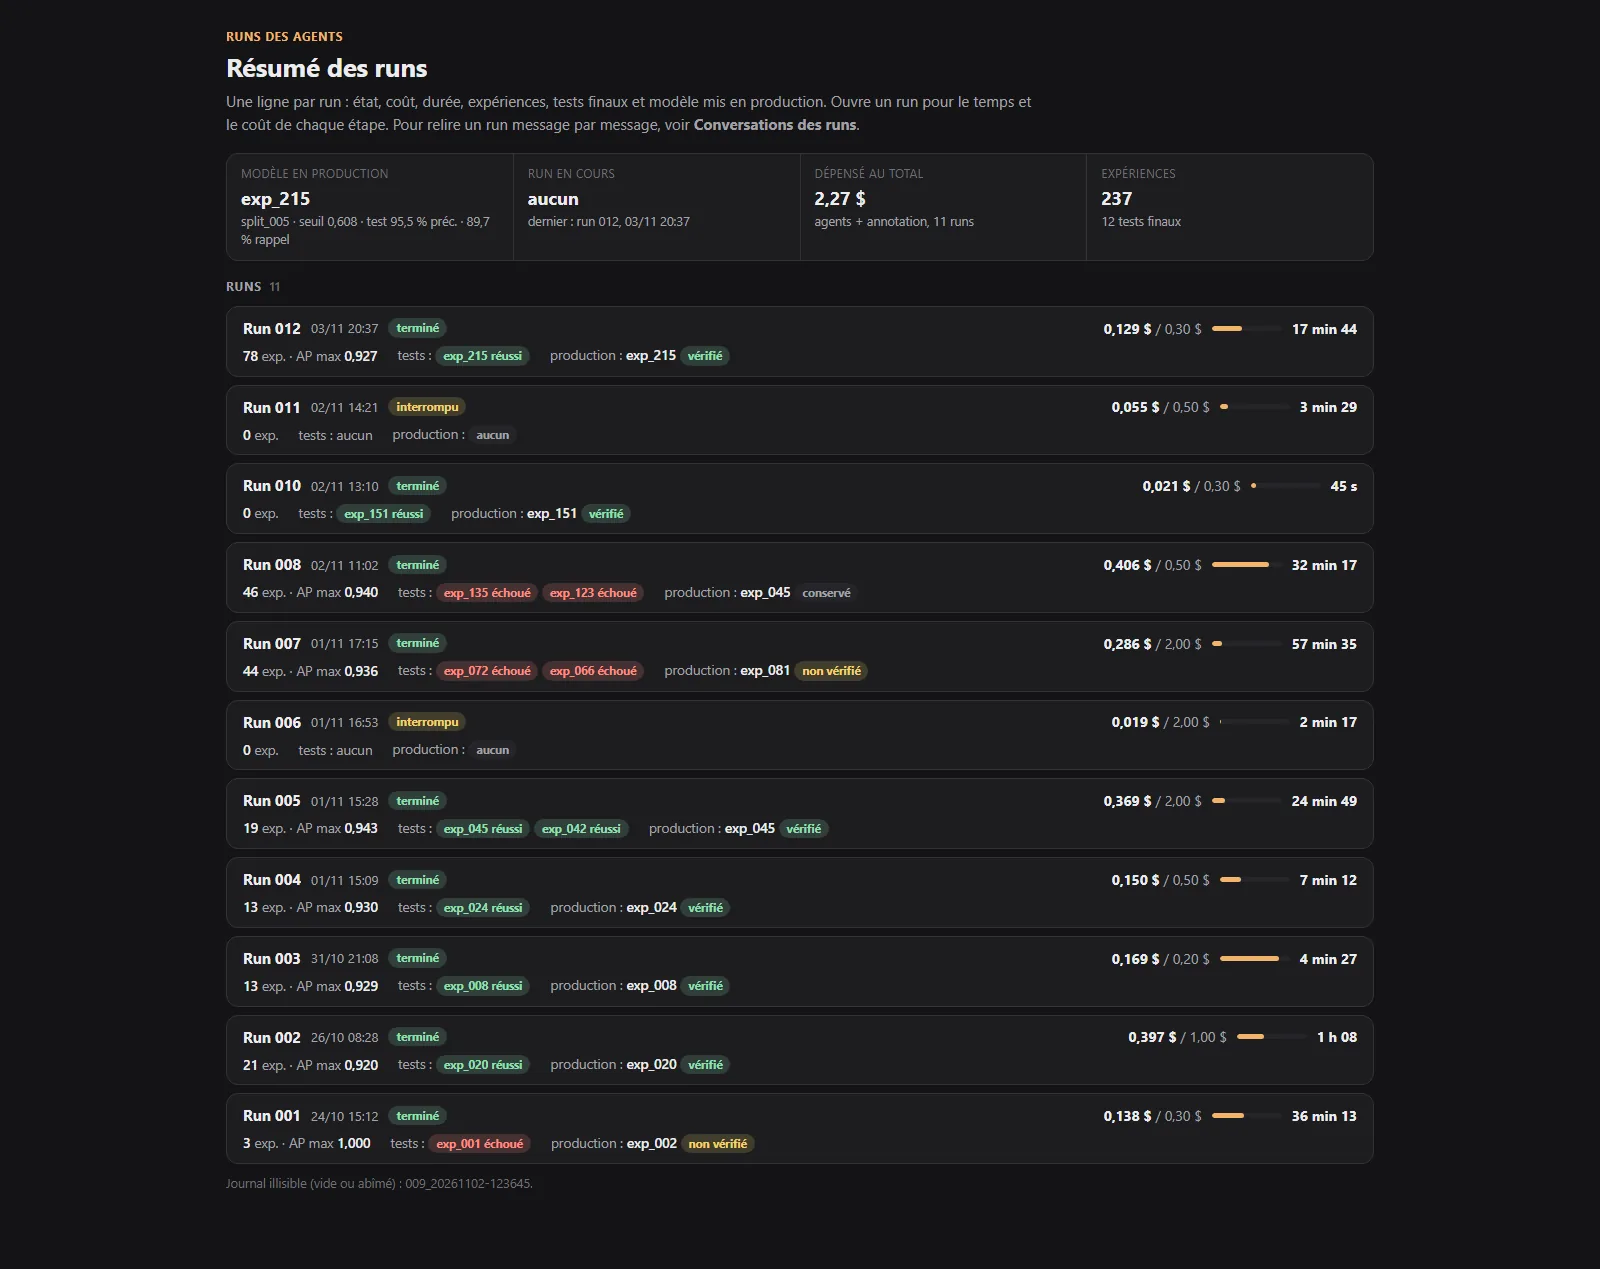
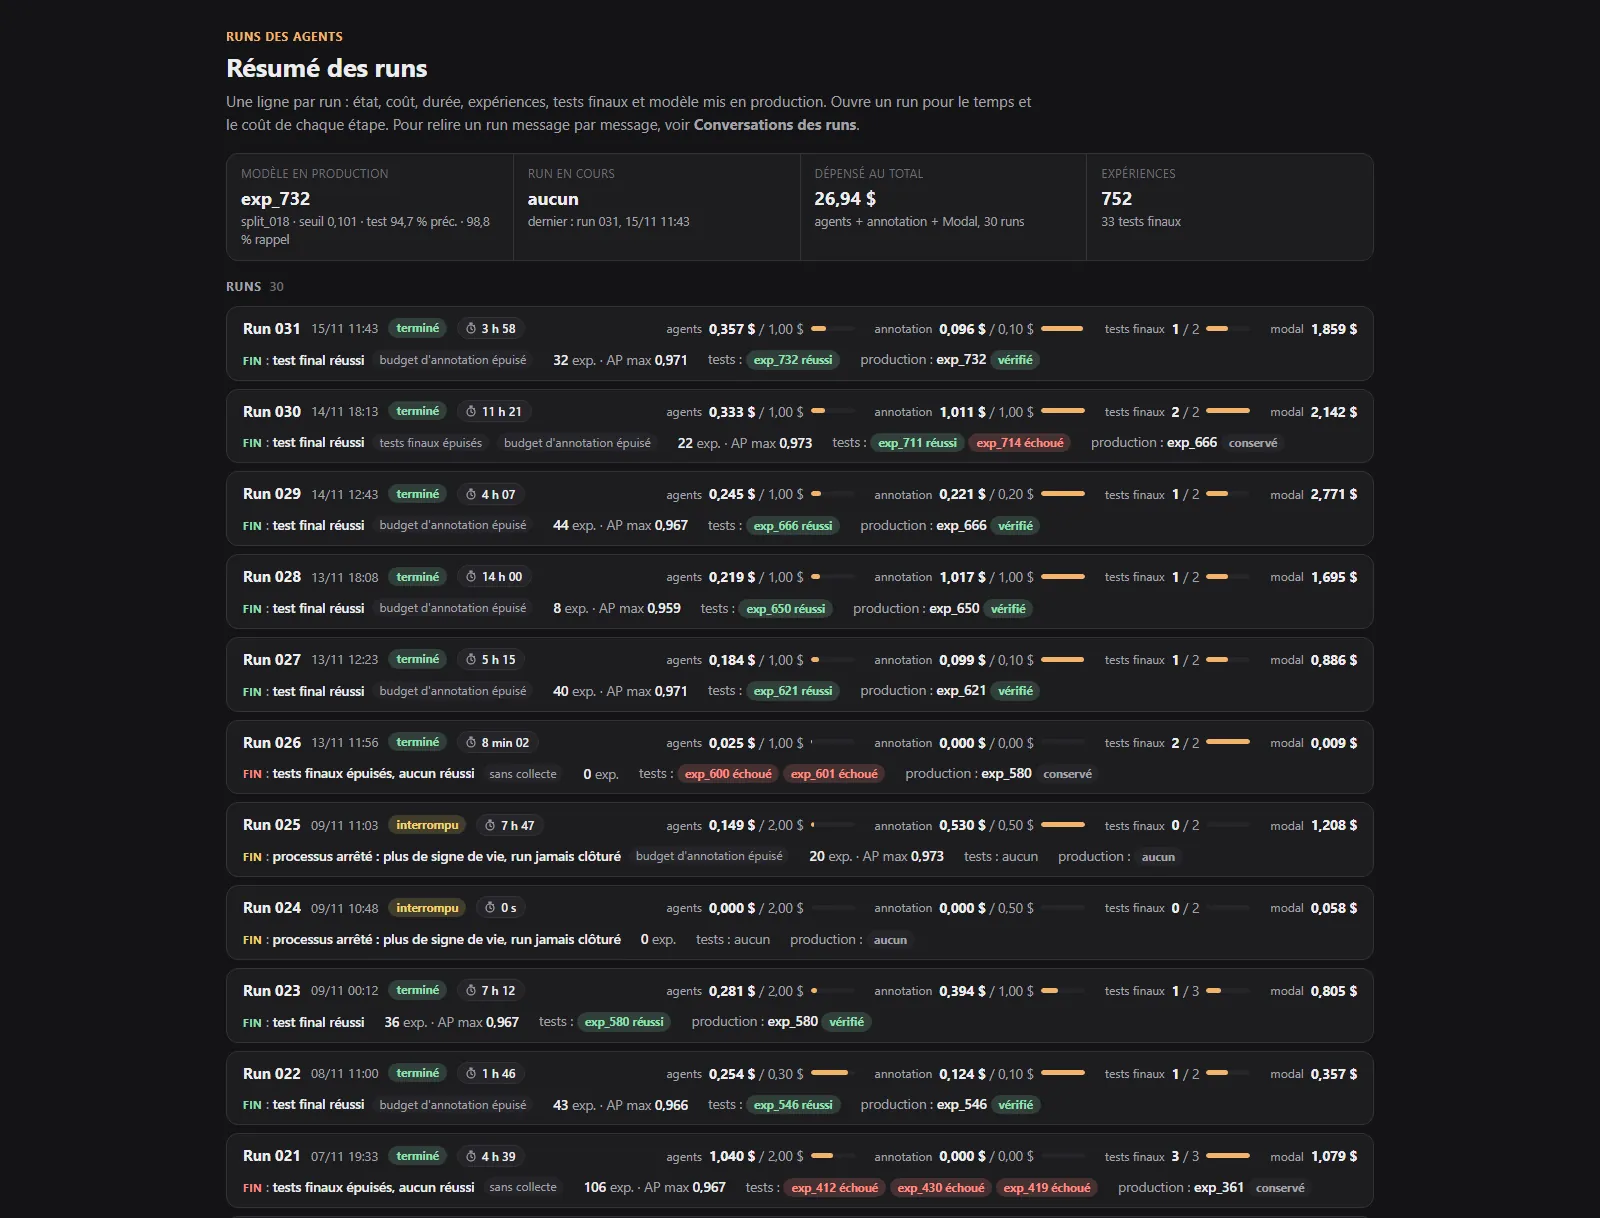
Projet agents : nouvelle capture du résumé des runs

diff --git a/index.html b/index.html
@@ -371,14 +371,15 @@
                     <img
                       src="assets/agents/thumbs/runs.webp"
                       width="800"
-                      height="634"
+                      height="609"
                       loading="lazy"
-                      alt="Résumé des runs : état, coût, durée, expériences, tests finaux et modèle mis en production."
+                      alt="Résumé des runs : état, durée, coûts agents, annotation et Modal, raison de fin, tests finaux et modèle mis en production."
                     />
                   </a>
                   <figcaption>
-                    Résumé des runs : état, coût, durée, expériences, tests
-                    finaux et modèle mis en production.
+                    Résumé des runs : état, durée, coûts agents, annotation et
+                    Modal, raison de fin, tests finaux et modèle mis en
+                    production.
                   </figcaption>
                 </figure>
                 <figure class="mosaic-item">
